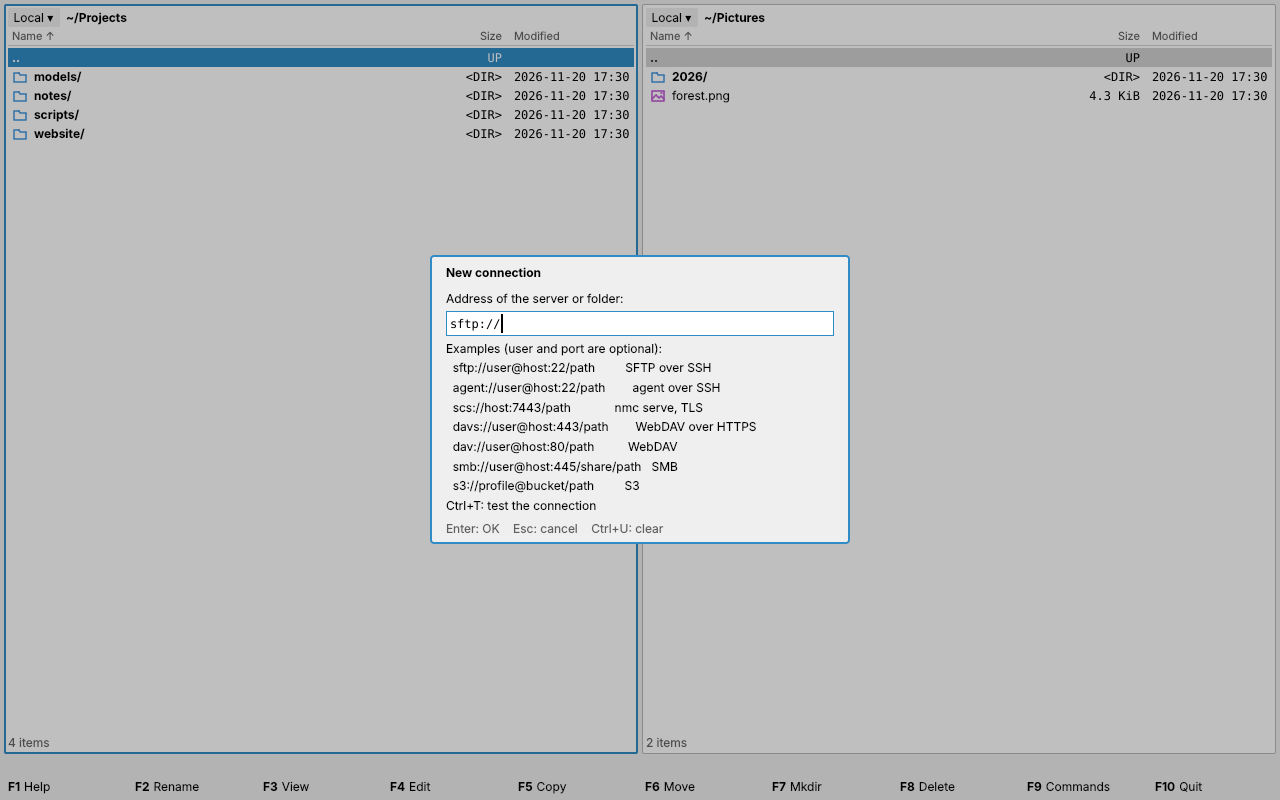
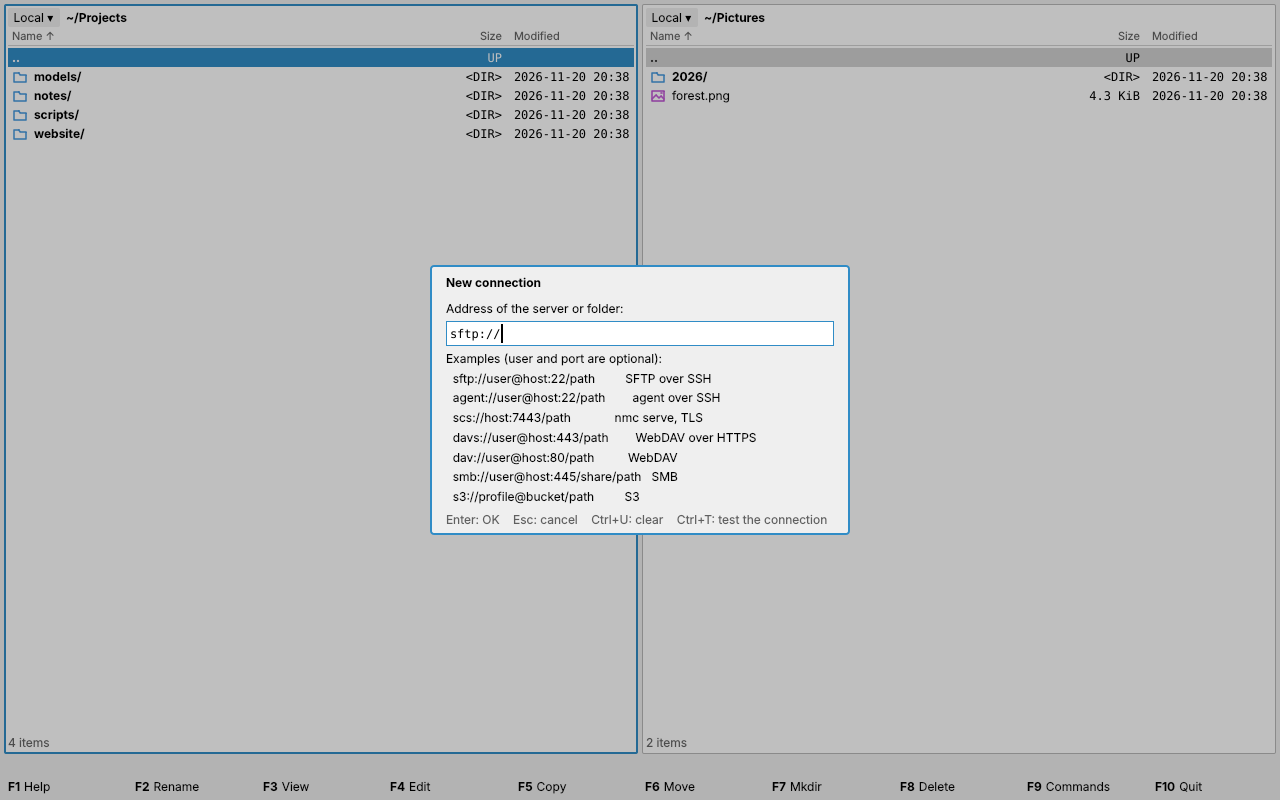
Show the keys of a question in the key row, not in its text (Pack Ctrl+O, connection Ctrl+T)
Claude-Session: https://claude.ai/code/session_01VjTFAPYoMZdbjMuHmFvCUS

Changed region(s): [[0.3125, 0.3125, 0.6875, 0.6875], [0.9688, 0.0938, 1.0, 0.125], [0.4688, 0.0938, 0.5, 0.125]]

diff --git a/gui/qml/DialogView.qml b/gui/qml/DialogView.qml
@@ -244,7 +244,7 @@ Item {
         id: input
         Box {
             title: dialogs.view.title
-            hint: "Enter: OK    Esc: cancel    Ctrl+U: clear"
+            hint: dialogs.view.hint
             Label {
                 text: dialogs.view.prompt
                 Layout.fillWidth: true

diff --git a/crates/nmc-tui/tests/app.rs b/crates/nmc-tui/tests/app.rs
@@ -2560,7 +2560,7 @@ async fn a_connection_is_edited_with_guidance_and_tested_with_a_log() {
     let Some(Overlay::Input(dialog)) = h.app.overlay() else { panic!("no address asked") };
     assert_eq!(dialog.field.text(), "sftp://me@nas.invalid/srv");
     assert_eq!(dialog.preview[0], "✓ SFTP over SSH · host nas.invalid · user me");
-    assert!(dialog.preview.last().unwrap().contains("Ctrl+T"), "{:?}", dialog.preview);
+    assert!(dialog.hint().contains("Ctrl+T: test"), "the key is in the key row");
 
     // A password typed in the address is a warning, not an error.
     h.type_text("sftp://me:secret@nas/srv");
@@ -2641,7 +2641,9 @@ async fn advanced_pack_protects_an_archive_and_opening_it_asks_the_password() {
     h.focus("docs");
     h.key("Shift+F5");
     let Some(Overlay::Input(dialog)) = h.app.overlay() else { panic!("pack question") };
-    assert!(dialog.prompt.contains("Ctrl+O"), "{}", dialog.prompt);
+    assert!(!dialog.prompt.contains("Ctrl+O"), "the key is in the key row: {}", dialog.prompt);
+    assert!(dialog.hint().contains("Ctrl+O: more options"), "{}", dialog.hint());
+    assert!(h.screen().contains("Ctrl+O: more options"));
     h.key("Ctrl+O");
     // 1. The format.
     let Some(Overlay::Choose(dialog)) = h.app.overlay() else { panic!("no format list") };
@@ -2791,7 +2793,7 @@ async fn the_new_connection_prompt_lists_one_example_per_line() {
         "no password note among the examples: {:?}",
         dialog.preview
     );
-    assert!(dialog.preview.last().unwrap().contains("Ctrl+T"));
+    assert!(dialog.hint().contains("Ctrl+T: test"));
 }
 
 #[tokio::test]
@@ -2811,7 +2813,7 @@ async fn a_login_is_saved_in_netrc_or_asked_every_time() {
     assert!(dialog.preview.iter().any(|l| l.starts_with("⚠")), "{:?}", dialog.preview);
     h.key("Enter");
     let Some(Overlay::Input(name)) = h.app.overlay() else { panic!("no name asked") };
-    assert!(name.preview[0].contains("Ctrl+T"), "the test is offered here too");
+    assert!(name.hint().contains("Ctrl+T"), "the test is offered here too");
     h.type_text("files");
     h.key("Enter");
     let Some(Overlay::Choose(choice)) = h.app.overlay() else { panic!("no login question") };

diff --git a/crates/nmc-frontend/src/connections.rs b/crates/nmc-frontend/src/connections.rs
@@ -295,10 +295,9 @@ pub fn check(text: &str) -> Result<Checked, String> {
 }
 
 /// The lines under the address field while it is typed: the samples while
-/// there is nothing yet, then what was understood (or what is wrong), then
-/// the key that tests it.
+/// there is nothing yet, then what was understood (or what is wrong).
 pub fn hints(text: &str) -> Vec<String> {
-    let mut lines = if text.trim().is_empty() || text.trim().ends_with("://") {
+    if text.trim().is_empty() || text.trim().ends_with("://") {
         examples()
     } else {
         match check(text) {
@@ -311,9 +310,7 @@ pub fn hints(text: &str) -> Vec<String> {
             }
             Err(e) => vec![format!("✗ {e}")],
         }
-    };
-    lines.push("Ctrl+T: test the connection".into());
-    lines
+    }
 }
 
 /// Opens the connection and reads its folder, telling each step. The last
@@ -459,14 +456,13 @@ mod tests {
         assert!(lines.iter().any(|l| l.contains("sftp://user@host:22/path") && l.contains("SFTP")));
         assert!(lines.iter().all(|l| !l.to_lowercase().contains("password")), "{lines:?}");
         assert_eq!(hints("sftp://"), lines);
-        assert_eq!(lines.last().unwrap(), "Ctrl+T: test the connection");
         assert!(!prompt().to_lowercase().contains("password"));
     }
 
     #[test]
     fn hints_follow_the_typing() {
         assert_eq!(hints("sftp://me@nas")[0], "✓ SFTP over SSH · host nas · user me");
-        assert_eq!(hints("sftp://me@nas").len(), 2, "no password talk");
+        assert_eq!(hints("sftp://me@nas").len(), 1, "one line, no password talk");
         assert!(hints("ftp://x")[0].starts_with("✗ "));
     }
 

diff --git a/crates/nmc-frontend/src/view.rs b/crates/nmc-frontend/src/view.rs
@@ -188,6 +188,8 @@ pub enum OverlayView {
         cursor: usize,
         /// Lines below the field (multi-rename: the new names).
         preview: Vec<String>,
+        /// The keys shown under the field.
+        hint: String,
     },
     /// A yes/no question.
     Confirm {
@@ -834,6 +836,7 @@ fn overlay_view(app: &App, viewer_rows: usize) -> Option<OverlayView> {
             text: dialog.shown().text().to_owned(),
             cursor: dialog.shown().cursor(),
             preview: dialog.preview.clone(),
+            hint: dialog.hint(),
         },
         Overlay::Confirm(dialog) => {
             OverlayView::Confirm { title: dialog.title.clone(), lines: dialog.lines.clone() }

diff --git a/crates/nmc-frontend/src/dialogs.rs b/crates/nmc-frontend/src/dialogs.rs
@@ -308,6 +308,18 @@ impl InputDialog {
         }
     }
 
+    /// The keys shown under the field: the usual ones, then those this
+    /// question adds (kept out of the prompt text).
+    pub fn hint(&self) -> String {
+        let mut hint = String::from("Enter: OK    Esc: cancel    Ctrl+U: clear");
+        match &self.purpose {
+            InputPurpose::PackInto(_) => hint.push_str("    Ctrl+O: more options"),
+            purpose if purpose.testable() => hint.push_str("    Ctrl+T: test the connection"),
+            _ => {}
+        }
+        hint
+    }
+
     /// The field as it is drawn: dots for a password.
     pub fn shown(&self) -> TextField {
         if !self.secret {

diff --git a/gui/tests/window.rs b/gui/tests/window.rs
@@ -277,3 +277,14 @@ fn ctrl_v_pastes_the_clipboard_into_a_question() {
     let text = overlay["text"].as_str().unwrap_or_default();
     assert!(text.ends_with("notes.txt"), "pasted: {text:?}");
 }
+
+#[test]
+fn the_pack_question_lists_its_keys_in_the_key_row() {
+    let home = home();
+    let run = run(home.path(), "Down Shift+F5", None);
+    assert_no_qml_warnings(&run);
+    let overlay = &run.screen["overlay"];
+    assert_eq!(overlay["kind"], "input", "{overlay}");
+    assert!(!overlay["prompt"].as_str().unwrap().contains("Ctrl+O"), "{overlay}");
+    assert!(overlay["hint"].as_str().unwrap().contains("Ctrl+O: more options"), "{overlay}");
+}

diff --git a/crates/nmc-tui/src/ui.rs b/crates/nmc-tui/src/ui.rs
@@ -625,7 +625,7 @@ fn draw_input(frame: &mut Frame, dialog: &InputDialog) {
         lines.extend(dialog.preview.iter().map(|l| Line::raw(fit(l, inner.width as usize))));
     }
     lines.push(Line::raw(""));
-    lines.push(Line::styled("Enter: OK    Esc: cancel    Ctrl+U: clear", dim()));
+    lines.push(Line::styled(dialog.hint(), dim()));
     frame.render_widget(Paragraph::new(lines), inner);
     frame.set_cursor_position(Position {
         x: inner.x + 1 + column as u16,

diff --git a/crates/nmc-frontend/src/app.rs b/crates/nmc-frontend/src/app.rs
@@ -1460,7 +1460,7 @@ impl App {
                         .map(|p| display_location(&p))
                         .unwrap_or_default();
                 let prompt = format!(
-                    "Pack {} into (format from the extension; Ctrl+O: more options):",
+                    "Pack {} into (format from the extension):",
                     Self::count_text(&targets)
                 );
                 self.ask("Pack", &prompt, &output, InputPurpose::PackInto(targets));

diff --git a/crates/nmc-frontend/src/app/logins.rs b/crates/nmc-frontend/src/app/logins.rs
@@ -29,9 +29,7 @@ impl App {
         initial: &str,
         purpose: InputPurpose,
     ) {
-        let mut dialog = InputDialog::new(title, prompt, initial, purpose);
-        dialog.preview = vec!["Ctrl+T: test the connection".into()];
-        self.overlay = Some(Overlay::Input(dialog));
+        self.overlay = Some(Overlay::Input(InputDialog::new(title, prompt, initial, purpose)));
     }
 
     /// The question for the address, with the examples showing at once.
